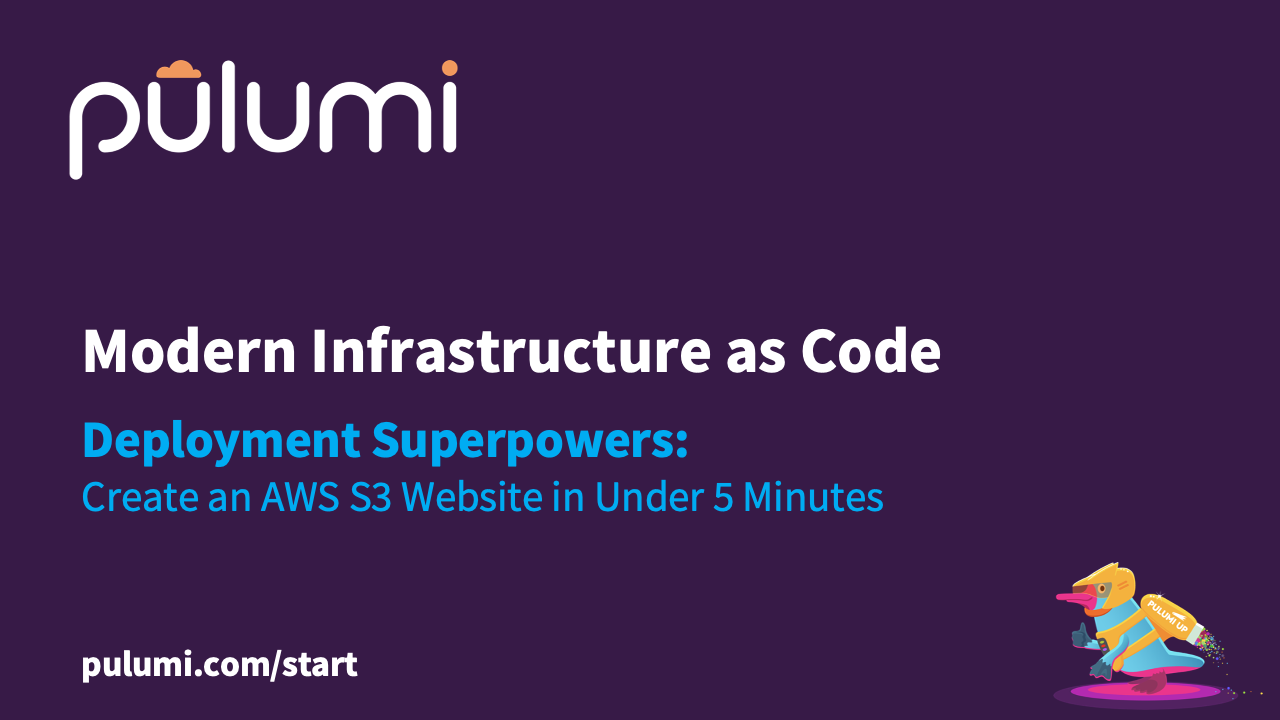
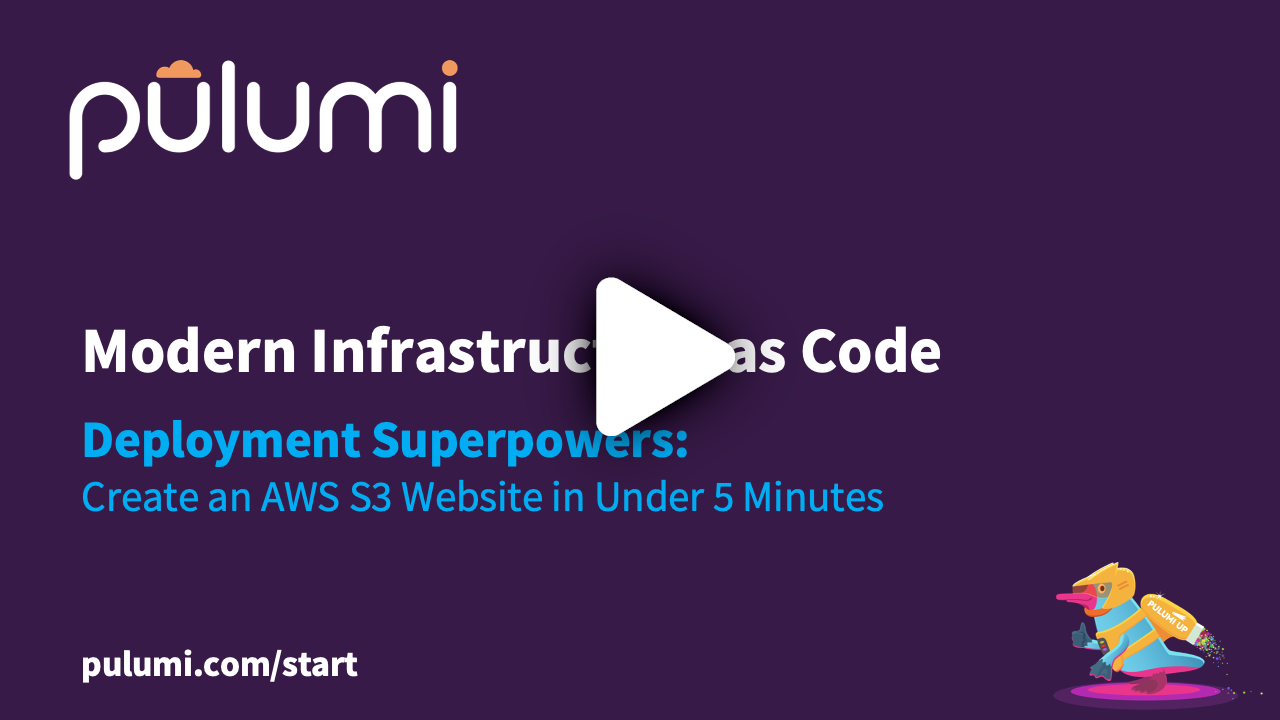
Add play button to actual placeholder image for consistent formatting

Changed region(s): [[0.4375, 0.3667, 0.5938, 0.6417]]

diff --git a/layouts/index.html b/layouts/index.html
@@ -235,7 +235,7 @@
                 style="position: absolute; top: 0; left: 0; width: 100%; height: 100%; border:0;"
                 allowfullscreen=""
                 title="Introduction to Pulumi: Modern Infrastructure as Code"
-                srcdoc="<style>*{padding:0;margin:0;overflow:hidden}html,body{height:100%}img,span{position:absolute;width:100%;top:0;bottom:0;margin:auto}span{height:1.5em;text-align:center;font:48px/1.5 sans-serif;color:white;text-shadow:0 0 0.5em black}</style><a href=https://www.youtube.com/embed/6f8KF6UGN7g?autoplay=1><img src='/images/home_page_youtube_preview.png' alt='Introduction to Pulumi: Modern Infrastructure as Code'><span>▶</span></a>"
+                srcdoc="<style>*{padding:0;margin:0;overflow:hidden}html,body{height:100%}img,span{position:absolute;width:100%;top:0;bottom:0;margin:auto}span{height:1.5em;text-align:center;font:48px/1.5 sans-serif;color:white;text-shadow:0 0 0.5em black}</style><a href=https://www.youtube.com/embed/6f8KF6UGN7g?autoplay=1><img src='/images/home_page_youtube_preview.png' alt='Introduction to Pulumi: Modern Infrastructure as Code'></a>"
             ></iframe>
         </div>
     </div>
